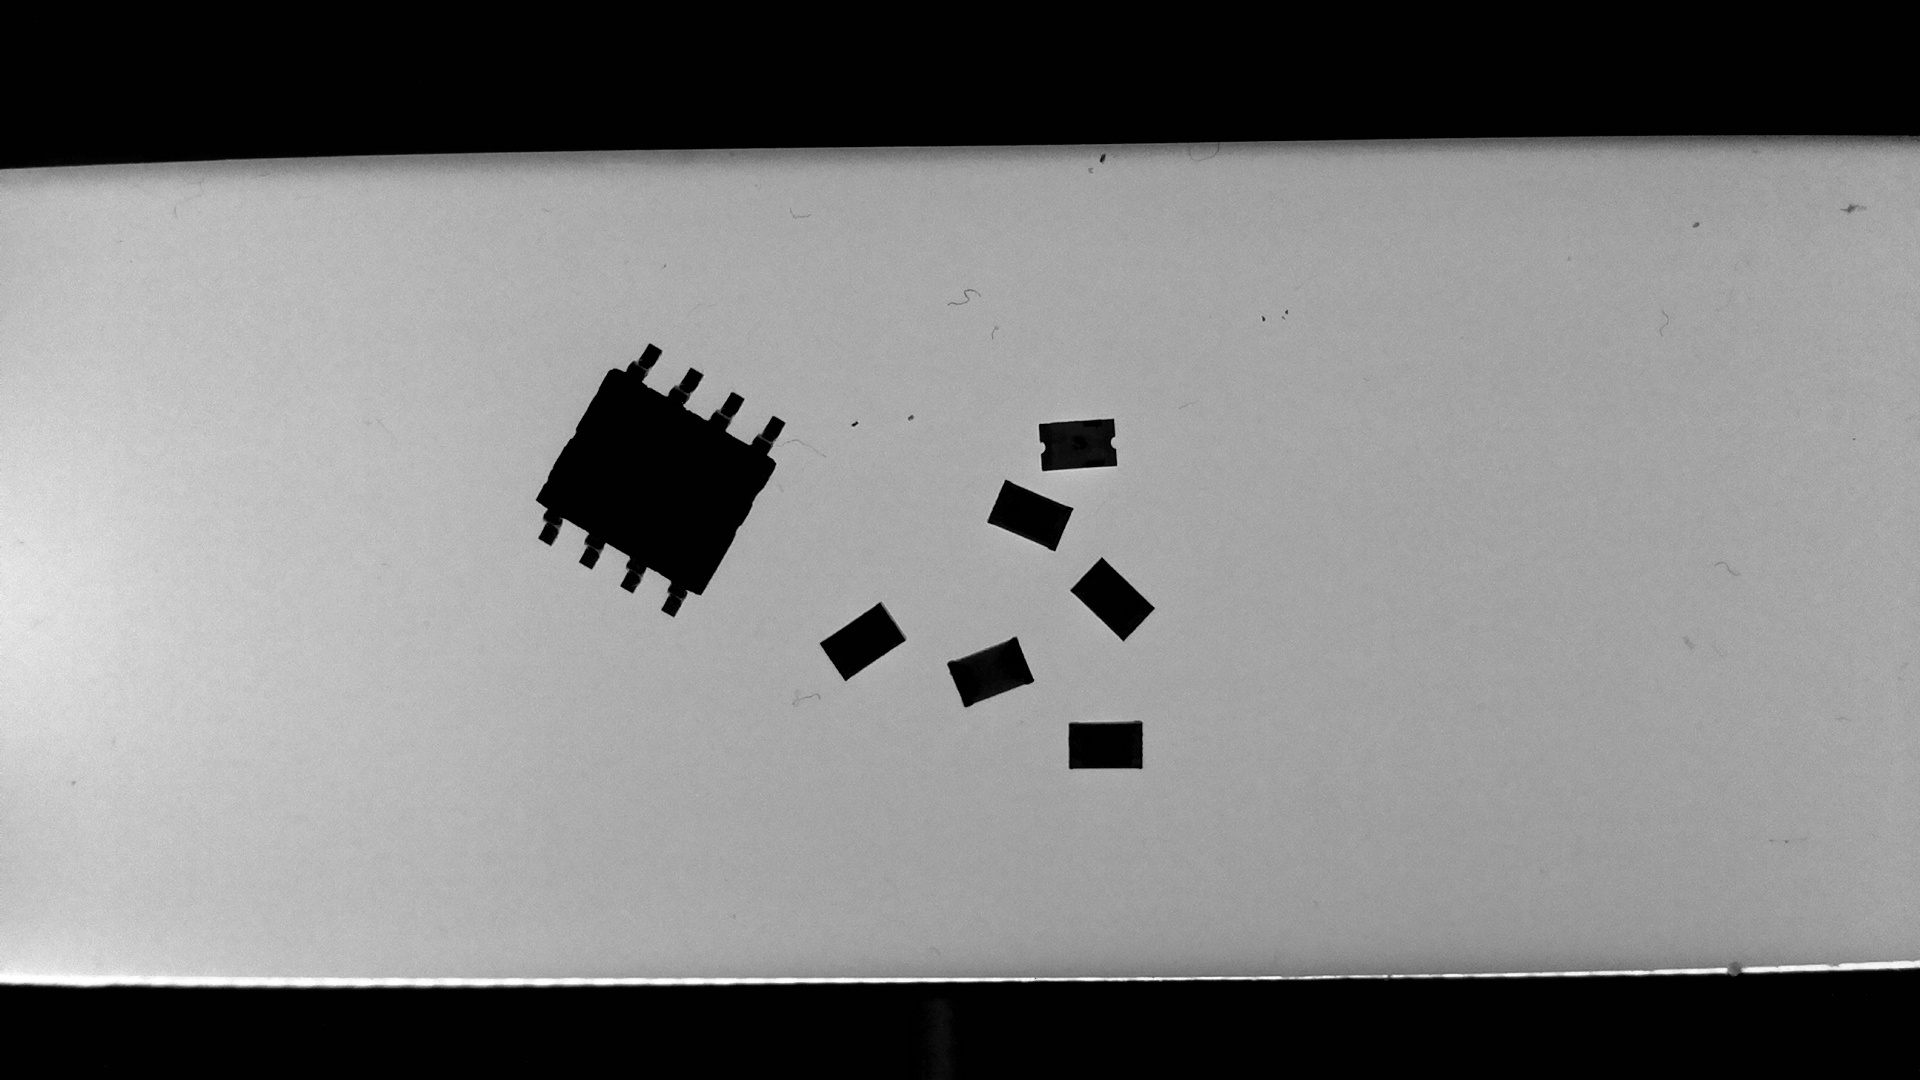
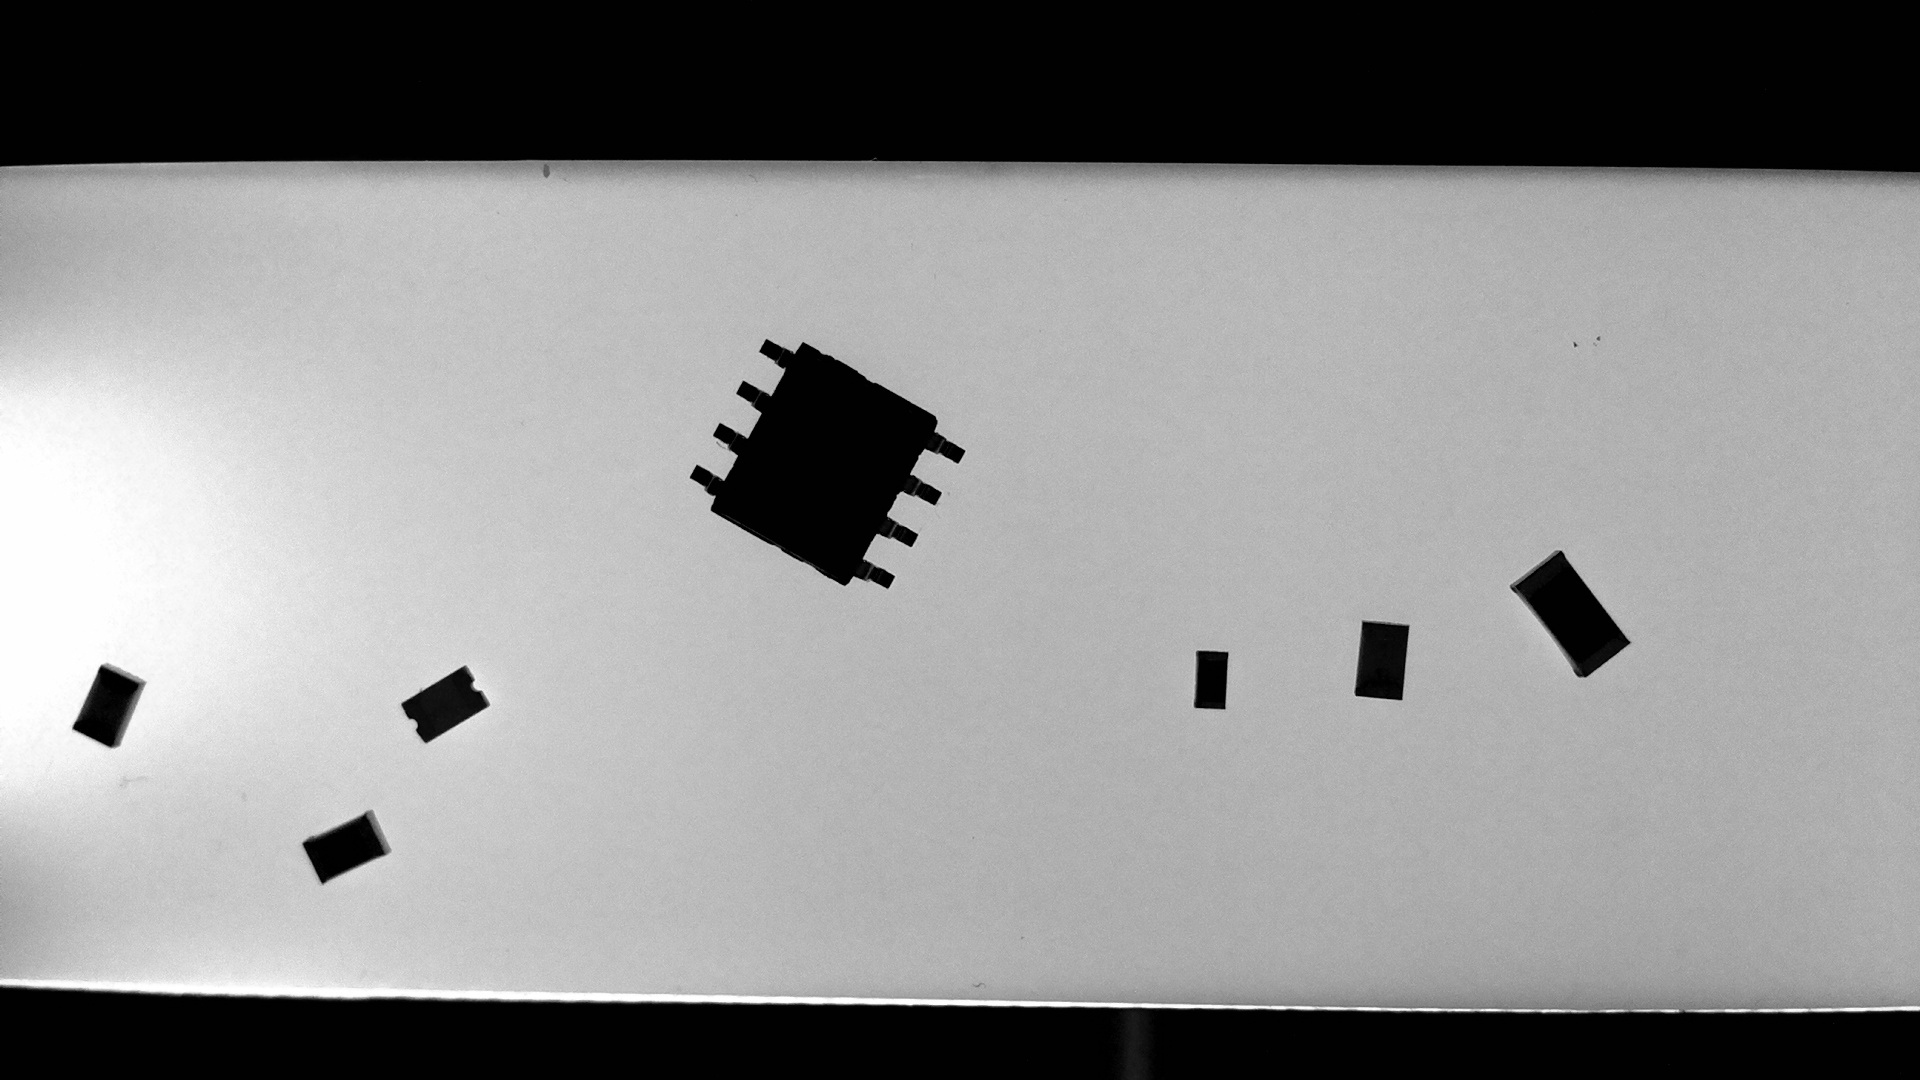
Writes ID next to parts

diff --git a/locate.py b/locate.py
@@ -13,12 +13,13 @@ backlight = 4
 GPIO.setup(backlight, GPIO.OUT)
 
 ########### Initialise Serial Comms. with machine ###########
-#ser = serial.Serial('/dev/ttyUSB0', 115200)
-
+ser = serial.Serial('/dev/ttyUSB0', 115200)
+ser.write("G21\r\n")        #Use mm
+ser.write("G90\r\n")        #Use absolute coordinates
 ###########     Position camera over backlight   ###########
 #ser.write('G28\r\n')               ##comment out if camera is already in position
-#ser.write('G1 Z25 F5000\r\n')
-#ser.write('G1 X145 Y90 F9000\r\n')
+ser.write('G1 Z25 F5000\r\n')
+ser.write('G1 X145 Y90 F9000\r\n')
 
 ###########         Prepare Camera Settings       ###########
 camera = picamera.PiCamera()
@@ -71,26 +72,26 @@ ret, thresh = cv2.threshold(imgray, 127, 255, 0)
 im2, contours, hierarchy = cv2.findContours(thresh, cv2.RETR_TREE, cv2.CHAIN_APPROX_SIMPLE)
 
 ######### scroll through contours and find one of suitable size  #########
-drawID = 0
+
 for count in range(len(contours)):
+    drawID = ''
     area = cv2.contourArea(contours[count])
-    #print(area)                         #Display area of each contour found
-    if(area >3000 and area < 4000):
-        print "Model ID: 1"
+    print(area)                         #Display area of each contour found
+    if(area >3000 and area < 4100):      
+        drawID = '0805'
+    if(area >33000 and area < 36400):
+        drawID = 'IC'
+    if(area >1750 and area < 2100):
+        drawID = '0603'
+    if(area >7000 and area < 7500):
+        drawID = '1206'
+    if(drawID):
+        print "Model ID: " + str(drawID);
         print "Area: " + str(area)
-        chosen = count
         cnt = contours[count]
-        drawID = 1
-    if(area >33000 and area < 36000):
-        print "Model ID: 2"
-        print "Area: " + str(area)
-        chosen = count
-        cnt = contours[count]
-        drawID = 2
-    if(drawID <> 0):
 ######### approximate contour as polygon with 10% deviation  #########
 
-        epsilon = 0.005*cv2.arcLength(cnt, True)            #([contour], [closed contour(T/F)])
+        epsilon = 0.01*cv2.arcLength(cnt, True)            #([contour], [closed contour(T/F)])
         approx = cv2.approxPolyDP(cnt, epsilon, True)
 
 ######### approximate contour as bounding rectangle  #########
@@ -113,12 +114,10 @@ for count in range(len(contours)):
         print "\n"
         box =cv2.boxPoints(rect)
         box = np.int0(box)
-        if(drawID==1):
-            im = cv2.drawContours(im, [box], 0, (0, 0, 255), 2)
-        elif(drawID==2):
-            im = cv2.drawContours(im, [box], 0, (0, 255, 0), 2)
-        drawID = 0
-        im = cv2.circle(im, (xVal, yVal), 20, (0, 255, 0))
+        im = cv2.drawContours(im, [box], 0, (0, 0, 255), 2)
+        cv2.putText(im, ('ID: ' + drawID), (xVal+2, yVal-2), cv2.FONT_HERSHEY_SIMPLEX, 0.35, (0, 255, 0))
+
+       # im = cv2.circle(im, (xVal, yVal), 20, (0, 255, 0))
         im = cv2.line(im, (xVal-sinAngleVal, yVal-cosAngleVal), (xVal+sinAngleVal, yVal+cosAngleVal), (0, 0, 255))
         im = cv2.line(im, (xVal-cosAngleVal, yVal+sinAngleVal), (xVal+cosAngleVal, yVal-sinAngleVal), (0, 0, 255))
         im = cv2.line(im, (xVal-10, yVal), (xVal+10, yVal), (0, 255, 0))
